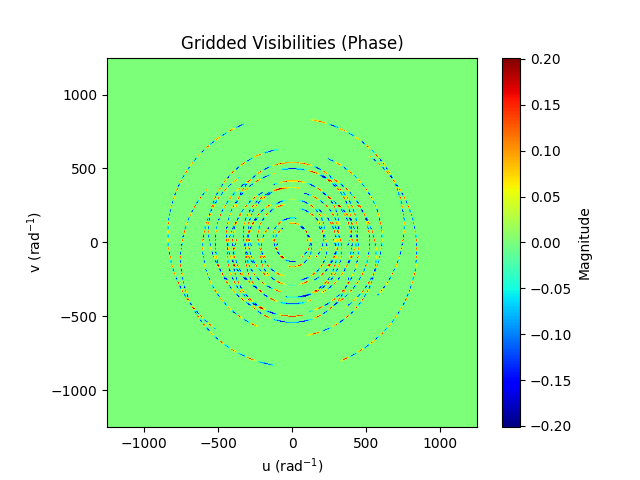
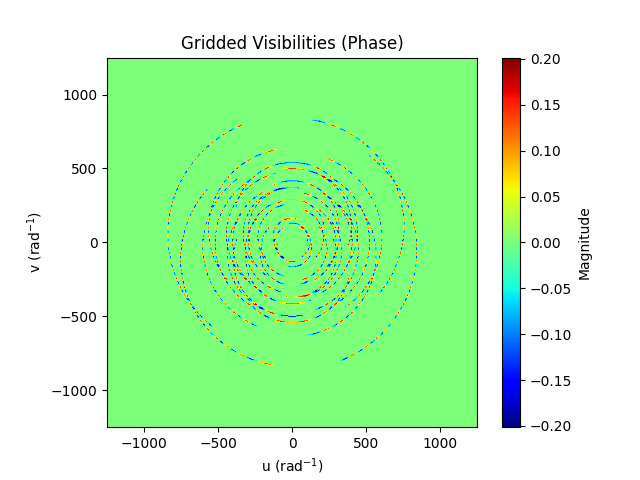
update

diff --git a/assignment2/PartB/simvis.py b/assignment2/PartB/simvis.py
@@ -47,7 +47,7 @@ class SimVis:
 
         self.psf = np.fft.fftshift(np.fft.fft2(self.gridded_uv))
 
-        obs_img = np.abs(np.fft.fftshift(np.fft.fft2(self.gridded_vis)))
+        obs_img = np.abs(np.fft.fftshift(np.fft.ifft2(self.gridded_vis)))
         self.obs_img = scale(obs_img, self.skymodel_df["flux"].max())
 
     def _get_skymodel(self, sigma=0.1):
@@ -122,9 +122,9 @@ class SimVis:
             u = uv_point[0]
             v = uv_point[1]
             if 0 <= u < self.Nx and 0 <= v < self.Ny:
-                self.gridded_uv[v, -u] = 1
+                self.gridded_uv[-v, u] = 1
                 flux, l, m = sources[:, 0], sources[:, 1], sources[:, 2]
-                self.gridded_vis[v, -u] += np.sum(
+                self.gridded_vis[-v, u] += np.sum(
                     flux * np.exp(-2 * np.pi * 1j * (l * self.uv[i][0] + m * self.uv[i][1]))
                 )
 
